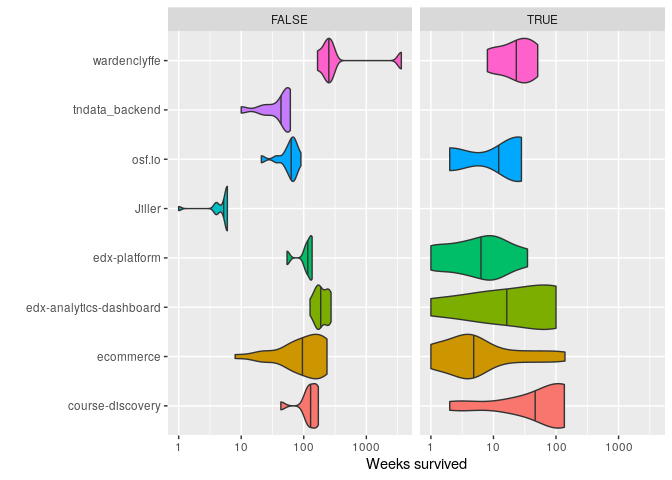
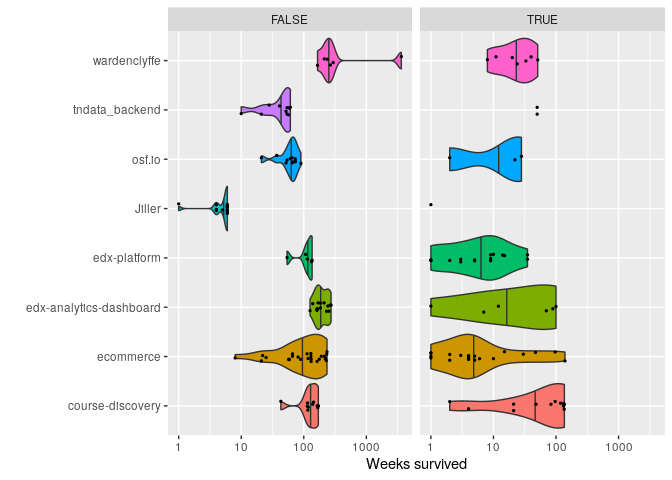
Add tndata_backend to generated md

diff --git a/extraction/R/categories.md b/extraction/R/categories.md
@@ -7,6 +7,7 @@ Survival of toggles by categories
 data %>%
   ggplot( aes(x=repo_name, y=weeks_survived, fill=repo_name) ) +
     geom_violin(scale = "width", draw_quantiles = c(0.5)) +
+    geom_jitter(height = 0, width = 0.1, size = 0.5) +
     theme(
       legend.position = "none"
     ) +
@@ -29,6 +30,7 @@ data %>%
   filter(all_routers_removed == TRUE) %>%
   ggplot( aes(x=repo_name, y=weeks_survived, fill=repo_name) ) +
     geom_violin(scale = "width", draw_quantiles = c(0.5)) +
+    geom_jitter(height = 0, width = 0.1, size = 0.5) +
     coord_flip() +
     scale_y_log10() +
     facet_grid(cols = vars(category)) +
@@ -47,7 +49,7 @@ How do categories compare? Whether toggles are removed or not.
 data %>%
   ggplot( aes(x=category, y=weeks_survived, fill=category) ) +
     geom_violin(scale = "width", draw_quantiles = c(0.5)) +
-    geom_jitter(height = 0, width = 0.1) +
+    geom_jitter(height = 0, width = 0.1, size = 0.5) +
     coord_flip() +
     scale_y_log10() +
     facet_grid(rows = vars(all_routers_removed)) +
